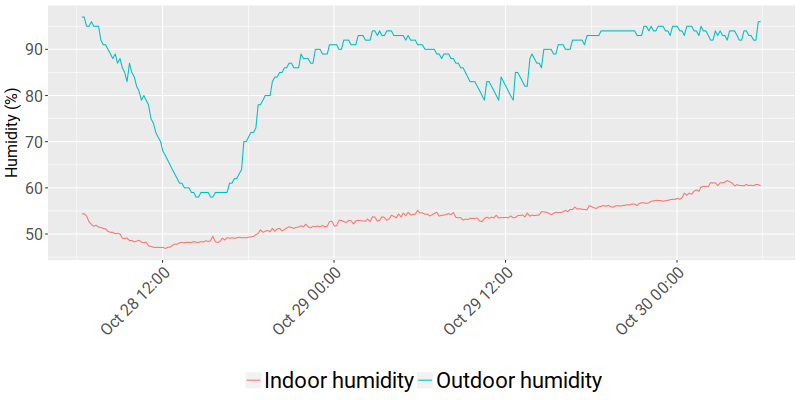
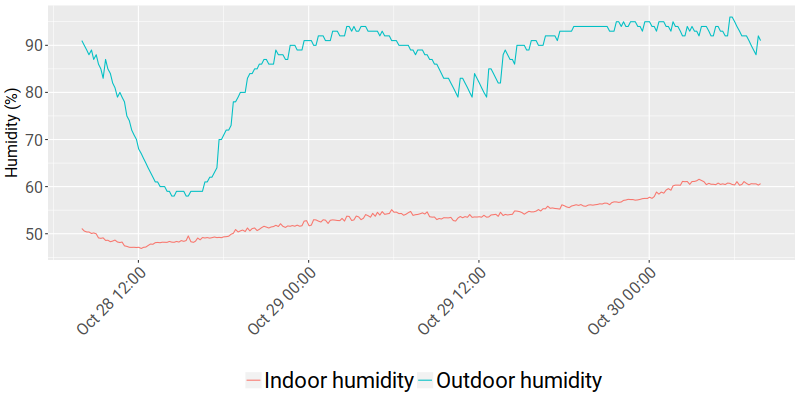
Update live temperature on site

diff --git a/temperature.js b/temperature.js
@@ -1,1 +1,1 @@
-document.write("<h4>Inside Temperature: 21.0°C</h4><h4>Outside Temperature: 17.0°C</h4><h4>Fermenter 1 Temperature: 21.06°C</h4><h4>Fermenter 2 Temperature: 20.88°C</h4><h4>Inside Humidity: 60.45%</h4><h4>Outside Humidity: 96.0%</h4><br>Last update: 2017-10-30 05:50:53");
+document.write("<h4>Inside Temperature: 21.0°C</h4><h4>Outside Temperature: 16.06°C</h4><h4>Fermenter 1 Temperature: 21.06°C</h4><h4>Fermenter 2 Temperature: 20.88°C</h4><h4>Inside Humidity: 60.63%</h4><h4>Outside Humidity: 91.0%</h4><br>Last update: 2017-10-30 07:51:01");
